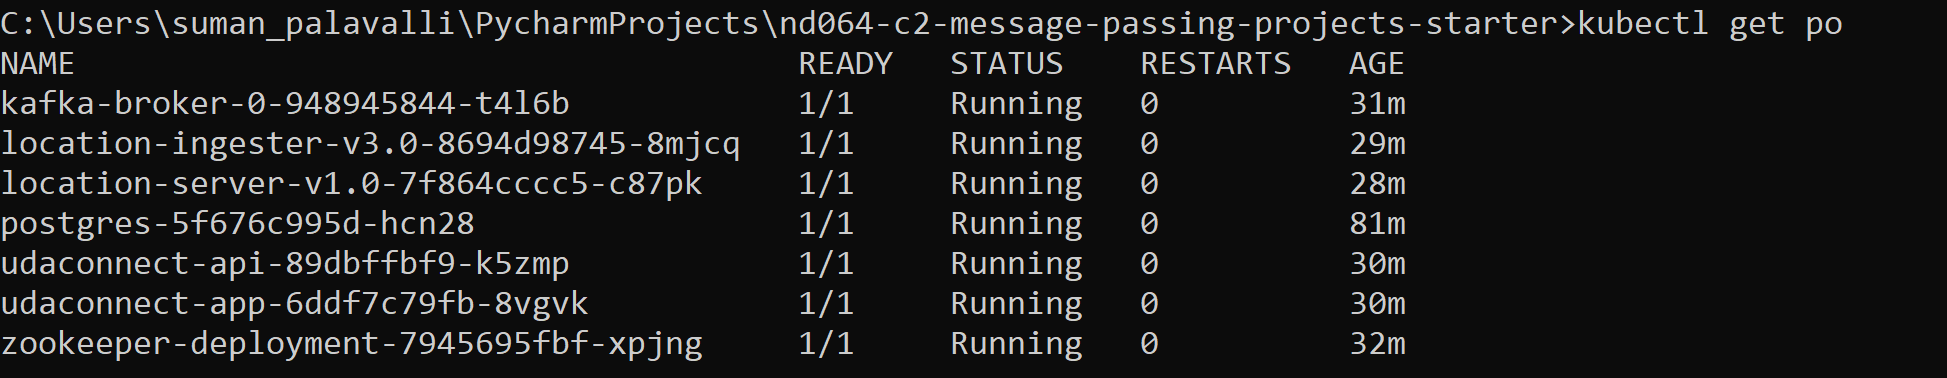
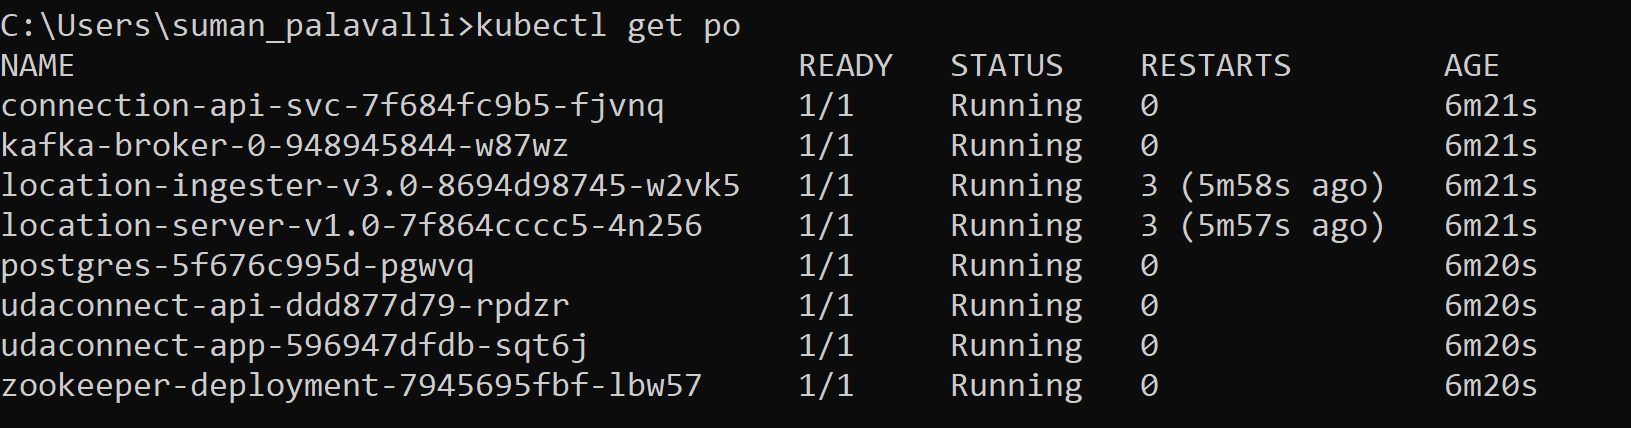
Updated documentation

diff --git a/README.md b/README.md
@@ -79,9 +79,16 @@ Afterwards, you can test that `kubectl` works by running a command like `kubectl
 1. `kubectl apply -f deployment/db-configmap.yaml` - Set up environment variables for the pods
 2. `kubectl apply -f deployment/db-secret.yaml` - Set up secrets for the pods
 3. `kubectl apply -f deployment/postgres.yaml` - Set up a Postgres database running PostGIS
-4. `kubectl apply -f deployment/udaconnect-api.yaml` - Set up the service and deployment for the API
-5. `kubectl apply -f deployment/udaconnect-app.yaml` - Set up the service and deployment for the web app
-6. `sh scripts/run_db_command.sh <POD_NAME>` - Seed your database against the `postgres` pod. (`kubectl get pods` will give you the `POD_NAME`)
+4. `kubectl apply -f deployment/zk-configmap.yaml` - Set up environment variables for zookeeper
+5. `kubectl apply -f deploy/kafka-configmap.yaml` - Set up environment variables for kafka
+6. `kubectl apply -f deploy/zk-deploy.yaml` - Set up the deployment for zookeeper.
+7. `kubectl apply -f deploy/kafka-deploy.yaml` - Set up the service and deployment for kafka.
+8. `kubectl apply -f deploy/location-ingester.yaml` - Set up the deployment for location ingester.
+9. `kubectl apply -f deploy/location-server.yaml` - Set up the deployment for location server.
+10. `kubectl apply -f deployment/udaconnect-api.yaml` - Set up the service and deployment for the API
+11. `kubectl apply -f deployment/udaconnect-app.yaml` - Set up the service and deployment for the web app
+12. `sh scripts/run_db_command.sh <POD_NAME>` - Seed your database against the `postgres` pod. (`kubectl get pods` will give you the `POD_NAME`)
+13. `python modules/location_client.py` - Sends a sample location payload. Verify this data is inserted into the location table.
 
 Manually applying each of the individual `yaml` files is cumbersome but going through each step provides some context on the content of the starter project. In practice, we would have reduced the number of steps by running the command against a directory to apply of the contents: `kubectl apply -f deployment/`.
 
